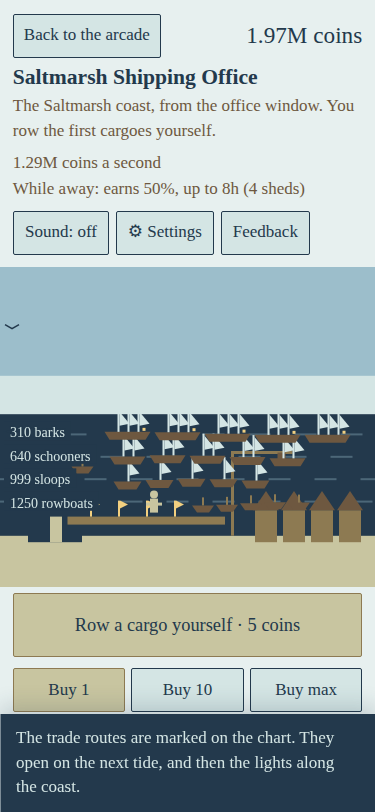
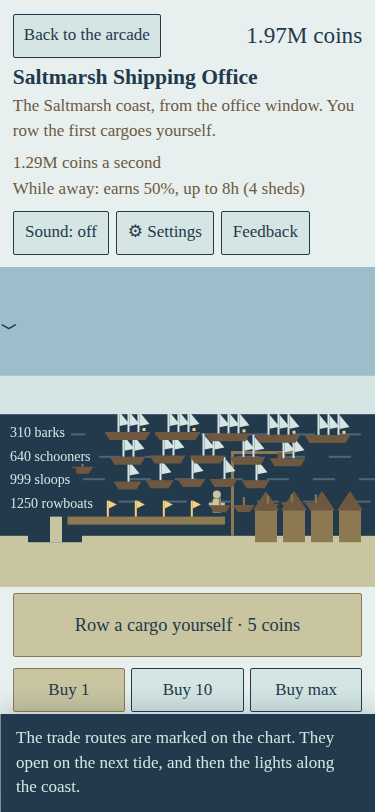
Keep the pier flags clear of the captain and the rowboat count.
The flags start after the count, and the captain stands after the last flag, held at the end of the pier. Wide harbours stay as they are. A five-digit count is checked at 375 and 390.

diff --git a/tests/saltmarsh-shipping.html b/tests/saltmarsh-shipping.html
@@ -272,6 +272,97 @@ document.querySelector('#run').onclick = async function () {
     var awayText = awayFrame.contentDocument.querySelector('#away').textContent;
     check('the away log shows after a closed page', awayFrame.contentWindow.__saltmarsh.away() && /While you were away/.test(awayText) && /50%/.test(awayText));
 
+    function readHarbour(canvas, width) {
+      var rect = canvas.getBoundingClientRect();
+      var w = rect.width, h = rect.height;
+      if (Math.abs(w - width) > 2) return { ok: false, why: 'canvas is ' + Math.round(w) + ' wide' };
+      var dpr = canvas.width / w;
+      var img = canvas.getContext('2d').getImageData(0, 0, canvas.width, canvas.height);
+      function px(x, y) {
+        var ix = Math.round(x * dpr), iy = Math.round(y * dpr);
+        var i = (iy * canvas.width + ix) * 4;
+        return [img.data[i], img.data[i + 1], img.data[i + 2]];
+      }
+      function near(c, r, g, b, tol) {
+        return c && Math.abs(c[0] - r) <= tol && Math.abs(c[1] - g) <= tol && Math.abs(c[2] - b) <= tol;
+      }
+      var y0 = h * 0.78 - 18, y1 = h * 0.78, lamp = [], sand = [], hull = [], y, x, c;
+      for (y = y0; y <= y1; y += 1) {
+        for (x = 0; x < w; x += 1) {
+          c = px(x, y);
+          if (near(c, 242, 208, 128, 18)) lamp.push([x, y]);
+          if (near(c, 200, 197, 160, 16) && y < h * 0.78 - 2 && x > w * 0.28) sand.push([x, y]);
+        }
+      }
+      var rowY = h * 0.74;
+      for (y = rowY; y <= rowY + 8; y += 1) {
+        for (x = 0; x < w; x += 1) if (near(px(x, y), 110, 88, 64, 18)) hull.push(x);
+      }
+      lamp.sort(function (a, b) { return a[0] - b[0]; });
+      var flags = [];
+      lamp.forEach(function (p) {
+        var last = flags[flags.length - 1];
+        if (!last || p[0] - last.maxX > 8) flags.push({ minX: p[0], maxX: p[0], minY: p[1], maxY: p[1] });
+        else {
+          last.maxX = Math.max(last.maxX, p[0]);
+          last.minY = Math.min(last.minY, p[1]);
+          last.maxY = Math.max(last.maxY, p[1]);
+        }
+      });
+      if (flags.length !== 4) return { ok: false, why: flags.length + ' flags' };
+      var cap = null;
+      sand.forEach(function (p) {
+        if (!cap) cap = { minX: p[0], maxX: p[0], minY: p[1], maxY: p[1] };
+        else {
+          cap.minX = Math.min(cap.minX, p[0]); cap.maxX = Math.max(cap.maxX, p[0]);
+          cap.minY = Math.min(cap.minY, p[1]); cap.maxY = Math.max(cap.maxY, p[1]);
+        }
+      });
+      if (!cap) return { ok: false, why: 'no captain' };
+      var hit = flags.some(function (flag) {
+        return cap.minX <= flag.maxX && cap.maxX >= flag.minX && cap.minY <= flag.maxY && cap.maxY >= flag.minY;
+      });
+      if (hit) return { ok: false, why: 'captain covers a flag' };
+      if (cap.maxX > w * 0.60 + 1) return { ok: false, why: 'captain is past the pier' };
+      var textRight = 0;
+      for (y = rowY - 12; y <= rowY + 6; y += 1) {
+        for (x = 0; x < w * 0.7; x += 1) if (near(px(x, y), 212, 229, 228, 28)) textRight = Math.max(textRight, x);
+      }
+      if (!(textRight + 4 < flags[0].minX)) return { ok: false, why: 'count meets the first flag' };
+      var span = flags.every(function (flag) {
+        var best = 0;
+        for (x = flag.minX; x <= flag.minX + 2; x += 1) {
+          var n = 0;
+          for (y = y0; y <= y1; y += 1) if (near(px(x, y), 242, 208, 128, 18)) n += 1;
+          best = Math.max(best, n);
+        }
+        return best >= 14;
+      });
+      if (!span) return { ok: false, why: 'a count plate cuts a flag' };
+      var hullLeft = Math.min.apply(null, hull);
+      if (!(hullLeft - flags[3].maxX >= 7)) return { ok: false, why: 'a flag meets a rowboat' };
+      return { ok: true };
+    }
+    async function harbourAt(width) {
+      wipe();
+      var state = ready(12);
+      state.cash = 1000000;
+      state.lifetime = 1000000;
+      state.boats[0].owned = 99999;
+      state.boats[1].owned = 10;
+      state.captains[0].hired = true;
+      localStorage.setItem(KEY, JSON.stringify(M.serialize(state, Date.now())));
+      var box = await loadFrame('harbour ' + width);
+      box.style.width = width + 'px';
+      var win = box.contentWindow;
+      await new Promise(function (resolve) { win.requestAnimationFrame(function () { win.requestAnimationFrame(resolve); }); });
+      return readHarbour(win.document.querySelector('#harbour'), width);
+    }
+    var phone375 = await harbourAt(375);
+    check(phone375.ok ? 'at 375 a five-digit count leaves the flags, the captain and the plates apart' : 'at 375 harbour: ' + phone375.why, phone375.ok);
+    var phone390 = await harbourAt(390);
+    check(phone390.ok ? 'at 390 a five-digit count leaves the flags, the captain and the plates apart' : 'at 390 harbour: ' + phone390.why, phone390.ok);
+
     wipe();
     var touchFrame = await loadFrame('touch');
     var touchDoc = touchFrame.contentDocument;

diff --git a/games/saltmarsh-shipping/harbour.js b/games/saltmarsh-shipping/harbour.js
@@ -115,10 +115,21 @@
 
       var best = 0;
       for (var b = 0; b < 4; b++) best = Math.max(best, boatCount(state, b));
+      ctx.font = '14px Georgia, Palatino, serif';
+      var rows = boatCount(state, 0);
+      var rowLabel = rows + ' ' + (rows === 1 ? 'rowboat' : 'rowboats');
+      /* The flags start after the rowboat count. On a wide harbour the count already ends first, so they stay a quarter of the way along. */
+      var flagX = Math.max(w * 0.24, 16 + ctx.measureText(rowLabel).width + 8);
+      var flagEnd = flagX + 3 * 28 + 10;
+      var pierEnd = w * 0.60;
+      var px = w * 0.40;
+      /* After the last flag when he would cover one. A wide harbour already clears them, so that layout stays. A long count cannot walk him off the pier. */
+      if (best >= 25 && px - 4 < flagEnd) px = flagEnd + 12;
+      if (px + 12 > pierEnd) px = pierEnd - 12;
       if (best >= 25) {
         ctx.fillStyle = LAMP;
         for (var f = 0; f < 4; f++) {
-          var fx = w * 0.24 + f * 28;
+          var fx = flagX + f * 28;
           ctx.fillRect(fx, h * 0.78 - 16, 2, 16);
           ctx.beginPath();
           ctx.moveTo(fx + 2, h * 0.78 - 16);
@@ -153,21 +164,21 @@
         ctx.font = '14px Georgia, Palatino, serif';
         ctx.textAlign = 'left';
         ctx.fillStyle = WATER;
-        ctx.fillRect(4, y - 12, ctx.measureText(label).width + 12, 19);
+        ctx.fillRect(0, y - 12, ctx.measureText(label).width + 16, 19);
         ctx.lineWidth = 3;
         ctx.strokeStyle = WATER;
         ctx.strokeText(label, 10, y + 4);
         ctx.fillStyle = MIST;
         ctx.fillText(label, 10, y + 4);
         var start = Math.max(w * 0.34, 10 + ctx.measureText(label).width + 12);
-        /* Pier flags stand on the left of the dock. The last triangle ends ten pixels past its pole, and the hull is centred, so the first rowboat starts a hull-half and a gap past that. */
-        if (kind === 'rowboat' && best >= 25) start = Math.max(start, w * 0.24 + 3 * 28 + 10 + 11 + 8);
+        /* The hull is centred, so the first rowboat starts a hull-half and a gap past the last flag. */
+        if (kind === 'rowboat' && best >= 25) start = Math.max(start, flagEnd + 11 + 8);
         var room = Math.max(spread, w - 16 - start);
         var step = show > 1 ? Math.min(spread, room / (show - 1)) : spread;
         for (var i = 0; i < show; i++) drawBoat(ctx, kind, start + i * step, y + bob(i + index));
       }
       if (state.captains && state.captains[0] && state.captains[0].hired) {
-        var px = w * 0.40, py = h * 0.78 - 18;
+        var py = h * 0.78 - 18;
         ctx.fillStyle = SAND;
         ctx.fillRect(px, py, 8, 14);
         ctx.fillRect(px - 4, py + 4, 16, 3);
